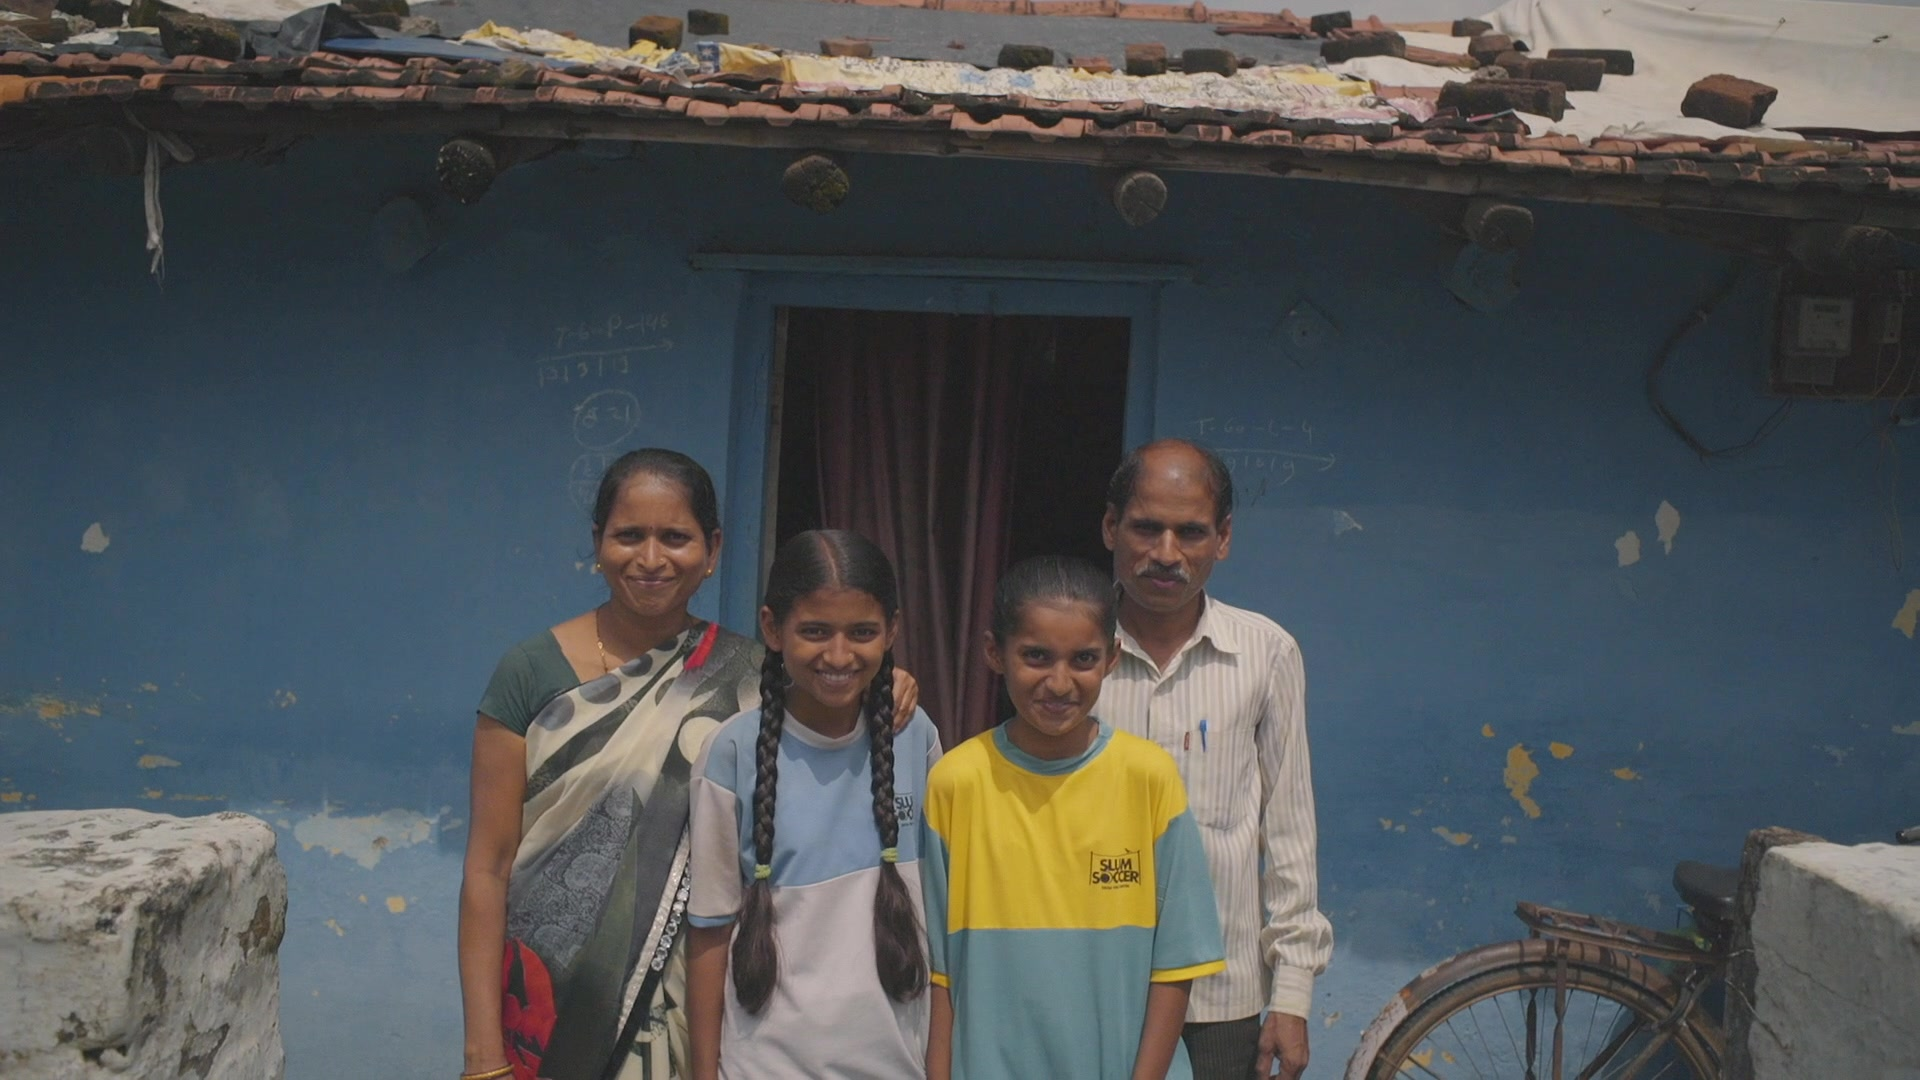
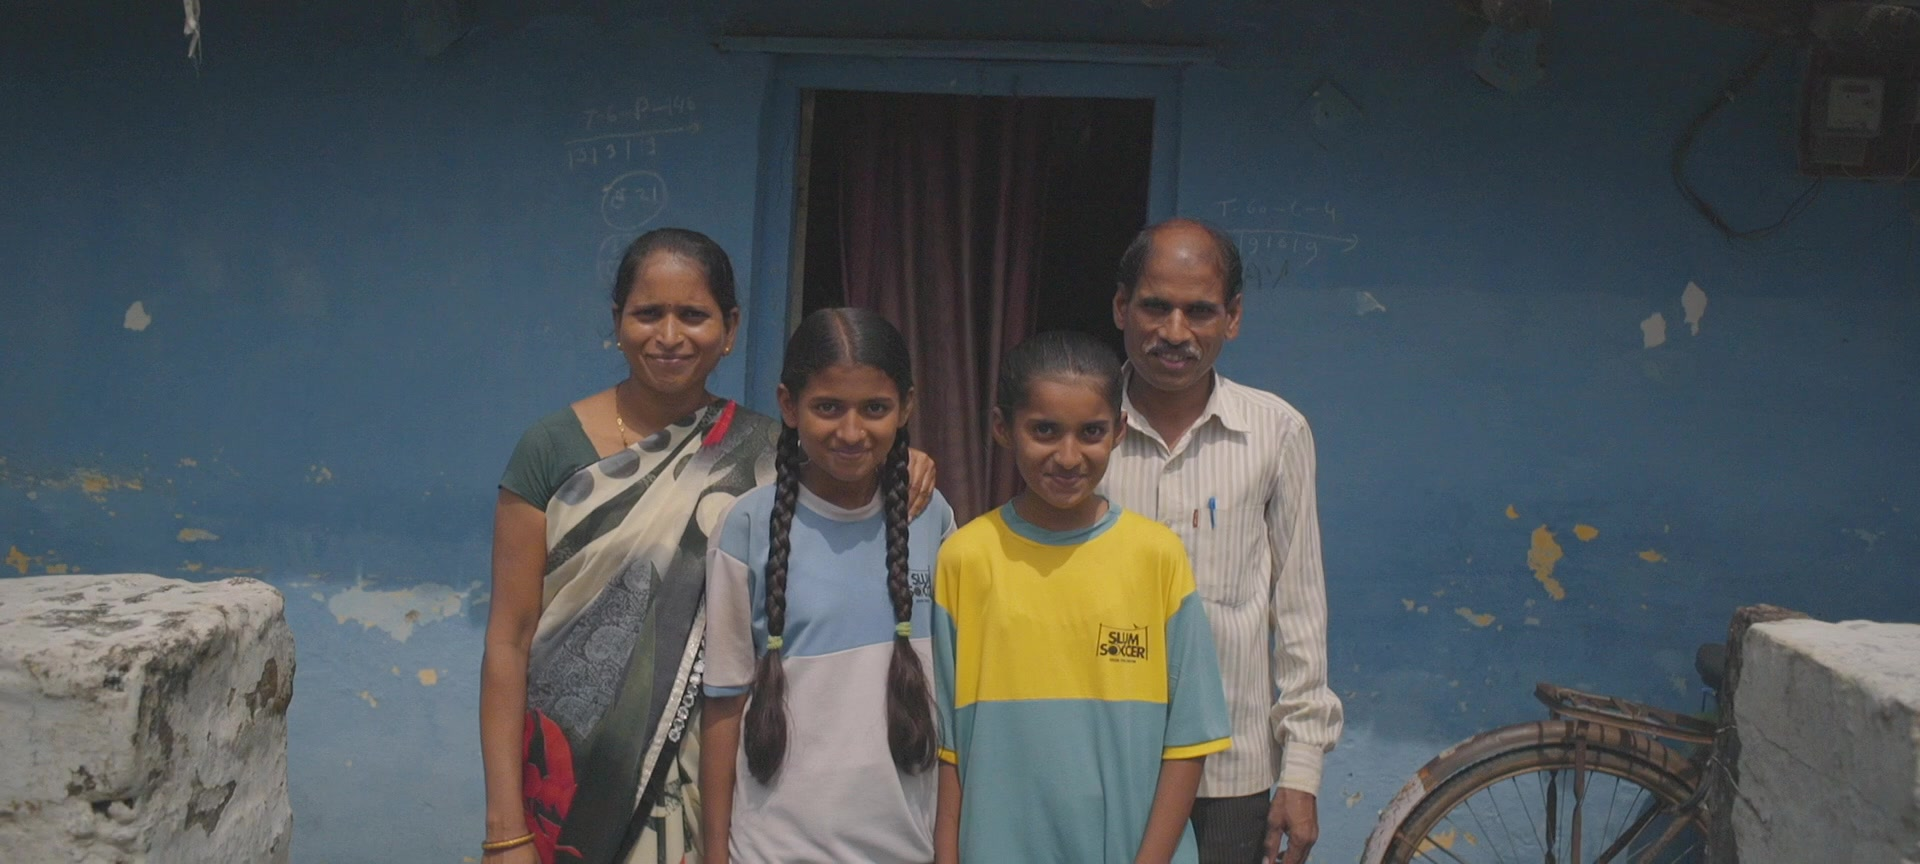
Contact: primer fotograma de la familia, ms panormico

diff --git a/es/index.html b/es/index.html
@@ -9,7 +9,7 @@
 
 <link rel="alternate" hreflang="en" href="/en/">
 <link rel="preload" href="/assets/fonts/inter-tight-400.woff2" as="font" type="font/woff2" crossorigin>
-<link rel="stylesheet" href="/assets/css/style.css?v=1794963000995">
+<link rel="stylesheet" href="/assets/css/style.css?v=1794963380515">
 </head>
 <body class="home-body has-hero" data-deco="slash" data-lbl="none" data-near="near" data-size="s" data-film="andy" data-theme="cream" data-glay="grid" data-gsize="m" data-ggap="normal" data-gink="red" data-gtype="caps" data-ghover="bw" data-gcap="hover">
 <div class="home4">
@@ -62,7 +62,7 @@
 <section class="chapter" id="contact"><div class="content">
 <div class="contact">
   <div class="cv cv3">
-    <figure class="cv-photo"><img src="/assets/img/contact/familia-india.jpg" alt="" width="1920" height="1080" loading="lazy"></figure>
+    <figure class="cv-photo"><img src="/assets/img/contact/familia-india.jpg" alt="" width="1920" height="864" loading="lazy"></figure>
     <div class="cv-text">
       <div class="cv-head"><i class="dash"></i><p>Hay historias que pueden cambiar el mundo y otras que nos recuerdan por qué merece la pena. Todas merecen tiempo, una mirada atenta y la libertad de dejar que las cosas sucedan sin artificios.</p><h1>Hablemos.</h1></div>
       <ul><li><a href="mailto:spinola.nacho@gmail.com?subject=Contacto%20desde%20tu%20web"><svg viewBox="0 0 24 24" width="22" height="22" fill="none" stroke="currentColor" stroke-width="1.4" stroke-linecap="round" stroke-linejoin="round" aria-hidden="true"><rect x="3" y="5.5" width="18" height="13" rx="1.5"/><path d="M3.5 7l8.5 6.5L20.5 7"/></svg><span><small>Correo</small>spinola.nacho@gmail.com</span></a></li><li><a href="https://wa.me/34675401991?text=Hola%20Nacho%2C%20me%20gustar%C3%ADa%20hablar%20contigo%20sobre%E2%80%A6" target="_blank" rel="noopener"><svg viewBox="0 0 24 24" width="22" height="22" fill="none" stroke="currentColor" stroke-width="1.4" stroke-linecap="round" stroke-linejoin="round" aria-hidden="true"><path d="M20 11.5a7.5 7.5 0 0 1-11.1 6.6L4 19.5l1.4-4.6A7.5 7.5 0 1 1 20 11.5z"/><g transform="translate(12.5 11.5) scale(.3) translate(-12 -12)" stroke-width="4.2"><path d="M22 16.92v3a2 2 0 0 1-2.18 2 19.79 19.79 0 0 1-8.63-3.07 19.5 19.5 0 0 1-6-6 19.79 19.79 0 0 1-3.07-8.67A2 2 0 0 1 4.11 2h3a2 2 0 0 1 2 1.72c.13.96.36 1.9.7 2.81a2 2 0 0 1-.45 2.11L8.09 9.91a16 16 0 0 0 6 6l1.27-1.27a2 2 0 0 1 2.11-.45c.91.34 1.85.57 2.81.7A2 2 0 0 1 22 16.92z"/></g></svg><span><small>Teléfono</small>+34 675 40 19 91</span></a></li><li><a href="https://instagram.com/nacho_spinola" target="_blank" rel="noopener"><svg viewBox="0 0 24 24" width="22" height="22" fill="none" stroke="currentColor" stroke-width="1.4" stroke-linecap="round" stroke-linejoin="round" aria-hidden="true"><rect x="3.5" y="3.5" width="17" height="17" rx="5"/><circle cx="12" cy="12" r="4"/><circle cx="17" cy="7" r=".6" fill="currentColor"/></svg><span><small>Instagram</small>@nacho_spinola</span></a></li></ul>

diff --git a/en/index.html b/en/index.html
@@ -9,7 +9,7 @@
 
 <link rel="alternate" hreflang="es" href="/es/">
 <link rel="preload" href="/assets/fonts/inter-tight-400.woff2" as="font" type="font/woff2" crossorigin>
-<link rel="stylesheet" href="/assets/css/style.css?v=1794963000995">
+<link rel="stylesheet" href="/assets/css/style.css?v=1794963380515">
 </head>
 <body class="home-body has-hero" data-deco="slash" data-lbl="none" data-near="near" data-size="s" data-film="andy" data-theme="cream" data-glay="grid" data-gsize="m" data-ggap="normal" data-gink="red" data-gtype="caps" data-ghover="bw" data-gcap="hover">
 <div class="home4">
@@ -62,7 +62,7 @@
 <section class="chapter" id="contact"><div class="content">
 <div class="contact">
   <div class="cv cv3">
-    <figure class="cv-photo"><img src="/assets/img/contact/familia-india.jpg" alt="" width="1920" height="1080" loading="lazy"></figure>
+    <figure class="cv-photo"><img src="/assets/img/contact/familia-india.jpg" alt="" width="1920" height="864" loading="lazy"></figure>
     <div class="cv-text">
       <div class="cv-head"><i class="dash"></i><p>Some stories can change the world and others remind us why it is worth it. All of them deserve time, an attentive eye and the freedom to let things happen without artifice.</p><h1>Let's talk.</h1></div>
       <ul><li><a href="mailto:spinola.nacho@gmail.com?subject=Message%20from%20your%20website"><svg viewBox="0 0 24 24" width="22" height="22" fill="none" stroke="currentColor" stroke-width="1.4" stroke-linecap="round" stroke-linejoin="round" aria-hidden="true"><rect x="3" y="5.5" width="18" height="13" rx="1.5"/><path d="M3.5 7l8.5 6.5L20.5 7"/></svg><span><small>Email</small>spinola.nacho@gmail.com</span></a></li><li><a href="https://wa.me/34675401991?text=Hi%20Nacho%2C%20I'd%20like%20to%20talk%20about%E2%80%A6" target="_blank" rel="noopener"><svg viewBox="0 0 24 24" width="22" height="22" fill="none" stroke="currentColor" stroke-width="1.4" stroke-linecap="round" stroke-linejoin="round" aria-hidden="true"><path d="M20 11.5a7.5 7.5 0 0 1-11.1 6.6L4 19.5l1.4-4.6A7.5 7.5 0 1 1 20 11.5z"/><g transform="translate(12.5 11.5) scale(.3) translate(-12 -12)" stroke-width="4.2"><path d="M22 16.92v3a2 2 0 0 1-2.18 2 19.79 19.79 0 0 1-8.63-3.07 19.5 19.5 0 0 1-6-6 19.79 19.79 0 0 1-3.07-8.67A2 2 0 0 1 4.11 2h3a2 2 0 0 1 2 1.72c.13.96.36 1.9.7 2.81a2 2 0 0 1-.45 2.11L8.09 9.91a16 16 0 0 0 6 6l1.27-1.27a2 2 0 0 1 2.11-.45c.91.34 1.85.57 2.81.7A2 2 0 0 1 22 16.92z"/></g></svg><span><small>Phone</small>+34 675 40 19 91</span></a></li><li><a href="https://instagram.com/nacho_spinola" target="_blank" rel="noopener"><svg viewBox="0 0 24 24" width="22" height="22" fill="none" stroke="currentColor" stroke-width="1.4" stroke-linecap="round" stroke-linejoin="round" aria-hidden="true"><rect x="3.5" y="3.5" width="17" height="17" rx="5"/><circle cx="12" cy="12" r="4"/><circle cx="17" cy="7" r=".6" fill="currentColor"/></svg><span><small>Instagram</small>@nacho_spinola</span></a></li></ul>

diff --git a/es/contact/index.html b/es/contact/index.html
@@ -9,7 +9,7 @@
 
 <link rel="alternate" hreflang="en" href="/en/contact/">
 <link rel="preload" href="/assets/fonts/inter-tight-400.woff2" as="font" type="font/woff2" crossorigin>
-<link rel="stylesheet" href="/assets/css/style.css?v=1794963000995">
+<link rel="stylesheet" href="/assets/css/style.css?v=1794963380515">
 </head>
 <body>
 <div class="page">
@@ -20,7 +20,7 @@
 <main class="content">
 <div class="contact">
   <div class="cv cv3">
-    <figure class="cv-photo"><img src="/assets/img/contact/familia-india.jpg" alt="" width="1920" height="1080" loading="lazy"></figure>
+    <figure class="cv-photo"><img src="/assets/img/contact/familia-india.jpg" alt="" width="1920" height="864" loading="lazy"></figure>
     <div class="cv-text">
       <div class="cv-head"><i class="dash"></i><p>Hay historias que pueden cambiar el mundo y otras que nos recuerdan por qué merece la pena. Todas merecen tiempo, una mirada atenta y la libertad de dejar que las cosas sucedan sin artificios.</p><h1>Hablemos.</h1></div>
       <ul><li><a href="mailto:spinola.nacho@gmail.com?subject=Contacto%20desde%20tu%20web"><svg viewBox="0 0 24 24" width="22" height="22" fill="none" stroke="currentColor" stroke-width="1.4" stroke-linecap="round" stroke-linejoin="round" aria-hidden="true"><rect x="3" y="5.5" width="18" height="13" rx="1.5"/><path d="M3.5 7l8.5 6.5L20.5 7"/></svg><span><small>Correo</small>spinola.nacho@gmail.com</span></a></li><li><a href="https://wa.me/34675401991?text=Hola%20Nacho%2C%20me%20gustar%C3%ADa%20hablar%20contigo%20sobre%E2%80%A6" target="_blank" rel="noopener"><svg viewBox="0 0 24 24" width="22" height="22" fill="none" stroke="currentColor" stroke-width="1.4" stroke-linecap="round" stroke-linejoin="round" aria-hidden="true"><path d="M20 11.5a7.5 7.5 0 0 1-11.1 6.6L4 19.5l1.4-4.6A7.5 7.5 0 1 1 20 11.5z"/><g transform="translate(12.5 11.5) scale(.3) translate(-12 -12)" stroke-width="4.2"><path d="M22 16.92v3a2 2 0 0 1-2.18 2 19.79 19.79 0 0 1-8.63-3.07 19.5 19.5 0 0 1-6-6 19.79 19.79 0 0 1-3.07-8.67A2 2 0 0 1 4.11 2h3a2 2 0 0 1 2 1.72c.13.96.36 1.9.7 2.81a2 2 0 0 1-.45 2.11L8.09 9.91a16 16 0 0 0 6 6l1.27-1.27a2 2 0 0 1 2.11-.45c.91.34 1.85.57 2.81.7A2 2 0 0 1 22 16.92z"/></g></svg><span><small>Teléfono</small>+34 675 40 19 91</span></a></li><li><a href="https://instagram.com/nacho_spinola" target="_blank" rel="noopener"><svg viewBox="0 0 24 24" width="22" height="22" fill="none" stroke="currentColor" stroke-width="1.4" stroke-linecap="round" stroke-linejoin="round" aria-hidden="true"><rect x="3.5" y="3.5" width="17" height="17" rx="5"/><circle cx="12" cy="12" r="4"/><circle cx="17" cy="7" r=".6" fill="currentColor"/></svg><span><small>Instagram</small>@nacho_spinola</span></a></li></ul>

diff --git a/en/contact/index.html b/en/contact/index.html
@@ -9,7 +9,7 @@
 
 <link rel="alternate" hreflang="es" href="/es/contact/">
 <link rel="preload" href="/assets/fonts/inter-tight-400.woff2" as="font" type="font/woff2" crossorigin>
-<link rel="stylesheet" href="/assets/css/style.css?v=1794963000995">
+<link rel="stylesheet" href="/assets/css/style.css?v=1794963380515">
 </head>
 <body>
 <div class="page">
@@ -20,7 +20,7 @@
 <main class="content">
 <div class="contact">
   <div class="cv cv3">
-    <figure class="cv-photo"><img src="/assets/img/contact/familia-india.jpg" alt="" width="1920" height="1080" loading="lazy"></figure>
+    <figure class="cv-photo"><img src="/assets/img/contact/familia-india.jpg" alt="" width="1920" height="864" loading="lazy"></figure>
     <div class="cv-text">
       <div class="cv-head"><i class="dash"></i><p>Some stories can change the world and others remind us why it is worth it. All of them deserve time, an attentive eye and the freedom to let things happen without artifice.</p><h1>Let's talk.</h1></div>
       <ul><li><a href="mailto:spinola.nacho@gmail.com?subject=Message%20from%20your%20website"><svg viewBox="0 0 24 24" width="22" height="22" fill="none" stroke="currentColor" stroke-width="1.4" stroke-linecap="round" stroke-linejoin="round" aria-hidden="true"><rect x="3" y="5.5" width="18" height="13" rx="1.5"/><path d="M3.5 7l8.5 6.5L20.5 7"/></svg><span><small>Email</small>spinola.nacho@gmail.com</span></a></li><li><a href="https://wa.me/34675401991?text=Hi%20Nacho%2C%20I'd%20like%20to%20talk%20about%E2%80%A6" target="_blank" rel="noopener"><svg viewBox="0 0 24 24" width="22" height="22" fill="none" stroke="currentColor" stroke-width="1.4" stroke-linecap="round" stroke-linejoin="round" aria-hidden="true"><path d="M20 11.5a7.5 7.5 0 0 1-11.1 6.6L4 19.5l1.4-4.6A7.5 7.5 0 1 1 20 11.5z"/><g transform="translate(12.5 11.5) scale(.3) translate(-12 -12)" stroke-width="4.2"><path d="M22 16.92v3a2 2 0 0 1-2.18 2 19.79 19.79 0 0 1-8.63-3.07 19.5 19.5 0 0 1-6-6 19.79 19.79 0 0 1-3.07-8.67A2 2 0 0 1 4.11 2h3a2 2 0 0 1 2 1.72c.13.96.36 1.9.7 2.81a2 2 0 0 1-.45 2.11L8.09 9.91a16 16 0 0 0 6 6l1.27-1.27a2 2 0 0 1 2.11-.45c.91.34 1.85.57 2.81.7A2 2 0 0 1 22 16.92z"/></g></svg><span><small>Phone</small>+34 675 40 19 91</span></a></li><li><a href="https://instagram.com/nacho_spinola" target="_blank" rel="noopener"><svg viewBox="0 0 24 24" width="22" height="22" fill="none" stroke="currentColor" stroke-width="1.4" stroke-linecap="round" stroke-linejoin="round" aria-hidden="true"><rect x="3.5" y="3.5" width="17" height="17" rx="5"/><circle cx="12" cy="12" r="4"/><circle cx="17" cy="7" r=".6" fill="currentColor"/></svg><span><small>Instagram</small>@nacho_spinola</span></a></li></ul>

diff --git a/en/film/homeless-world-cup-2019-uefa-s-respect-day/index.html b/en/film/homeless-world-cup-2019-uefa-s-respect-day/index.html
@@ -9,7 +9,7 @@
 
 <link rel="alternate" hreflang="es" href="/es/film/homeless-world-cup-2019-uefa-s-respect-day/">
 <link rel="preload" href="/assets/fonts/inter-tight-400.woff2" as="font" type="font/woff2" crossorigin>
-<link rel="stylesheet" href="/assets/css/style.css?v=1794963000995">
+<link rel="stylesheet" href="/assets/css/style.css?v=1794963380515">
 <script>try{var r=document.referrer,m=r&&r.indexOf(location.origin)===0?r.slice(location.origin.length):"";if(/^\/(es|en)\/(film|photo)\/[^\/]+\//.test(m))document.documentElement.classList.add("brand-done")}catch(e){}</script>
 </head>
 <body class="has-compact">

diff --git a/es/film/homeless-world-cup-2019-uefa-s-respect-day/index.html b/es/film/homeless-world-cup-2019-uefa-s-respect-day/index.html
@@ -9,7 +9,7 @@
 
 <link rel="alternate" hreflang="en" href="/en/film/homeless-world-cup-2019-uefa-s-respect-day/">
 <link rel="preload" href="/assets/fonts/inter-tight-400.woff2" as="font" type="font/woff2" crossorigin>
-<link rel="stylesheet" href="/assets/css/style.css?v=1794963000995">
+<link rel="stylesheet" href="/assets/css/style.css?v=1794963380515">
 <script>try{var r=document.referrer,m=r&&r.indexOf(location.origin)===0?r.slice(location.origin.length):"";if(/^\/(es|en)\/(film|photo)\/[^\/]+\//.test(m))document.documentElement.classList.add("brand-done")}catch(e){}</script>
 </head>
 <body class="has-compact">

diff --git a/en/film/homeless-world-cup-2017-dulce-s-story/index.html b/en/film/homeless-world-cup-2017-dulce-s-story/index.html
@@ -9,7 +9,7 @@
 
 <link rel="alternate" hreflang="es" href="/es/film/homeless-world-cup-2017-dulce-s-story/">
 <link rel="preload" href="/assets/fonts/inter-tight-400.woff2" as="font" type="font/woff2" crossorigin>
-<link rel="stylesheet" href="/assets/css/style.css?v=1794963000995">
+<link rel="stylesheet" href="/assets/css/style.css?v=1794963380515">
 <script>try{var r=document.referrer,m=r&&r.indexOf(location.origin)===0?r.slice(location.origin.length):"";if(/^\/(es|en)\/(film|photo)\/[^\/]+\//.test(m))document.documentElement.classList.add("brand-done")}catch(e){}</script>
 </head>
 <body class="has-compact">

diff --git a/es/film/homeless-world-cup-2017-dulce-s-story/index.html b/es/film/homeless-world-cup-2017-dulce-s-story/index.html
@@ -9,7 +9,7 @@
 
 <link rel="alternate" hreflang="en" href="/en/film/homeless-world-cup-2017-dulce-s-story/">
 <link rel="preload" href="/assets/fonts/inter-tight-400.woff2" as="font" type="font/woff2" crossorigin>
-<link rel="stylesheet" href="/assets/css/style.css?v=1794963000995">
+<link rel="stylesheet" href="/assets/css/style.css?v=1794963380515">
 <script>try{var r=document.referrer,m=r&&r.indexOf(location.origin)===0?r.slice(location.origin.length):"";if(/^\/(es|en)\/(film|photo)\/[^\/]+\//.test(m))document.documentElement.classList.add("brand-done")}catch(e){}</script>
 </head>
 <body class="has-compact">

diff --git a/en/film/street-soccer-india-s-experience/index.html b/en/film/street-soccer-india-s-experience/index.html
@@ -9,7 +9,7 @@
 
 <link rel="alternate" hreflang="es" href="/es/film/street-soccer-india-s-experience/">
 <link rel="preload" href="/assets/fonts/inter-tight-400.woff2" as="font" type="font/woff2" crossorigin>
-<link rel="stylesheet" href="/assets/css/style.css?v=1794963000995">
+<link rel="stylesheet" href="/assets/css/style.css?v=1794963380515">
 <script>try{var r=document.referrer,m=r&&r.indexOf(location.origin)===0?r.slice(location.origin.length):"";if(/^\/(es|en)\/(film|photo)\/[^\/]+\//.test(m))document.documentElement.classList.add("brand-done")}catch(e){}</script>
 </head>
 <body class="has-compact">

diff --git a/es/film/street-soccer-india-s-experience/index.html b/es/film/street-soccer-india-s-experience/index.html
@@ -9,7 +9,7 @@
 
 <link rel="alternate" hreflang="en" href="/en/film/street-soccer-india-s-experience/">
 <link rel="preload" href="/assets/fonts/inter-tight-400.woff2" as="font" type="font/woff2" crossorigin>
-<link rel="stylesheet" href="/assets/css/style.css?v=1794963000995">
+<link rel="stylesheet" href="/assets/css/style.css?v=1794963380515">
 <script>try{var r=document.referrer,m=r&&r.indexOf(location.origin)===0?r.slice(location.origin.length):"";if(/^\/(es|en)\/(film|photo)\/[^\/]+\//.test(m))document.documentElement.classList.add("brand-done")}catch(e){}</script>
 </head>
 <body class="has-compact">

diff --git a/en/film/historias-de-amistad-trailer/index.html b/en/film/historias-de-amistad-trailer/index.html
@@ -9,7 +9,7 @@
 
 <link rel="alternate" hreflang="es" href="/es/film/historias-de-amistad-trailer/">
 <link rel="preload" href="/assets/fonts/inter-tight-400.woff2" as="font" type="font/woff2" crossorigin>
-<link rel="stylesheet" href="/assets/css/style.css?v=1794963000995">
+<link rel="stylesheet" href="/assets/css/style.css?v=1794963380515">
 <script>try{var r=document.referrer,m=r&&r.indexOf(location.origin)===0?r.slice(location.origin.length):"";if(/^\/(es|en)\/(film|photo)\/[^\/]+\//.test(m))document.documentElement.classList.add("brand-done")}catch(e){}</script>
 </head>
 <body class="has-compact">

diff --git a/es/film/historias-de-amistad-trailer/index.html b/es/film/historias-de-amistad-trailer/index.html
@@ -9,7 +9,7 @@
 
 <link rel="alternate" hreflang="en" href="/en/film/historias-de-amistad-trailer/">
 <link rel="preload" href="/assets/fonts/inter-tight-400.woff2" as="font" type="font/woff2" crossorigin>
-<link rel="stylesheet" href="/assets/css/style.css?v=1794963000995">
+<link rel="stylesheet" href="/assets/css/style.css?v=1794963380515">
 <script>try{var r=document.referrer,m=r&&r.indexOf(location.origin)===0?r.slice(location.origin.length):"";if(/^\/(es|en)\/(film|photo)\/[^\/]+\//.test(m))document.documentElement.classList.add("brand-done")}catch(e){}</script>
 </head>
 <body class="has-compact">
